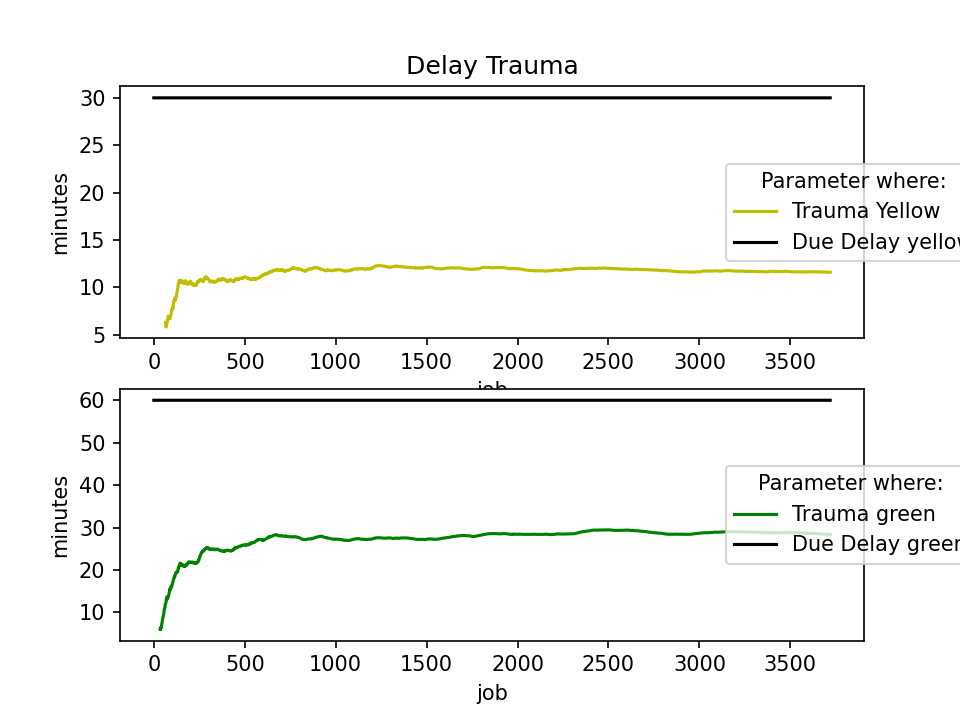
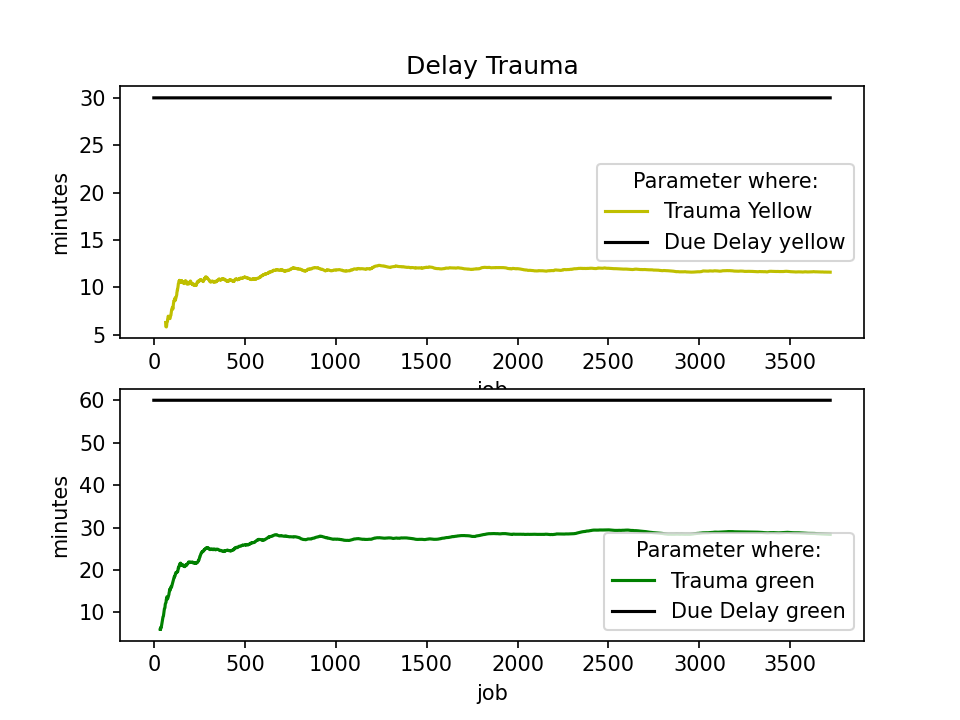
another final graphic

Changed region(s): [[0.625, 0.6417, 1.0, 0.8861], [0.625, 0.2139, 1.0, 0.3667], [0.625, 0.275, 0.6562, 0.3056]]

diff --git a/Python/grafici.py b/Python/grafici.py
@@ -461,10 +461,10 @@ def grafici2LaVendetta(path):
 	ax=plt.subplot(1,1,1);
 	plt.title("Delay Triage")
 	plt.plot(vettoreDelay[0],"r-",label='triage')
-	plt.plot([DueDelay[0]]*minDim,"c-",label='theorical delay')
+	plt.plot([DueDelay[0]]*minDim,"k-",label='Due delay')
 	plt.xlabel('job')
 	plt.ylabel('minutes')
-	ax.legend(title='Parameter where:',loc='center left',bbox_to_anchor=(0.8, 0.5))
+	ax.legend(title='Parameter where:')
 	plt.savefig("Delay"+vettoreReparti[0]+"3.png",format="png", dpi=150)
 	plt.show()
 
@@ -474,7 +474,7 @@ def grafici2LaVendetta(path):
 	plt.plot([DueDelay[1]]*minDim,"k-",label='Due Delay')
 	plt.xlabel('job')
 	plt.ylabel('minutes')
-	ax.legend(title='Parameter where:',loc='center left',bbox_to_anchor=(0.8, 0.5))
+	ax.legend(title='Parameter where:')
 	plt.savefig("Delay"+vettoreReparti[1]+"3.png",format="png", dpi=150)
 	plt.show()
 
@@ -484,14 +484,14 @@ def grafici2LaVendetta(path):
 	plt.plot([DueDelay[5]]*minDim,"k-",label='Due Delay yellow')
 	plt.xlabel('job')
 	plt.ylabel('minutes')	
-	ax.legend(title='Parameter where:',loc='center left',bbox_to_anchor=(0.8, 0.5))
+	ax.legend(title='Parameter where:')
 
 	ax=plt.subplot(2,1,2);
 	plt.plot(vettoreDelay[6],"g-",label='Trauma green');
 	plt.plot([DueDelay[6]]*minDim,"k-",label='Due Delay green')
 	plt.xlabel('job')
 	plt.ylabel('minutes')
-	ax.legend(title='Parameter where:',loc='center left',bbox_to_anchor=(0.8, 0.5))
+	ax.legend(title='Parameter where:')
 	plt.savefig("Delay"+vettoreReparti[2]+"3.png",format="png", dpi=150)
 	plt.show()
 
@@ -501,7 +501,7 @@ def grafici2LaVendetta(path):
 	plt.plot([DueDelay[10]]*minDim,"k-",label='Due Delay yellow')
 	plt.xlabel('job')
 	plt.ylabel('minutes')
-	ax.legend(title='Parameter where:',loc='center left',bbox_to_anchor=(0.8, 0.5))
+	ax.legend(title='Parameter where:')
 	
 	ax=plt.subplot(2,1,2);
 	plt.plot(vettoreDelay[8],"g-",label='Medical green');
@@ -509,7 +509,7 @@ def grafici2LaVendetta(path):
 
 	plt.xlabel('job')
 	plt.ylabel('minutes')
-	ax.legend(title='Parameter where:',loc='center left',bbox_to_anchor=(0.8, 0.5))
+	ax.legend(title='Parameter where:')
 	plt.savefig("Delay"+vettoreReparti[3]+"3.png",format="png", dpi=150)
 	plt.show()
 
@@ -519,14 +519,14 @@ def grafici2LaVendetta(path):
 	plt.plot([DueDelay[7]]*minDim,"k-",label='Due Delay yellow')
 	plt.xlabel('job')
 	plt.ylabel('minutes')
-	ax.legend(title='Parameter where:',loc='center left',bbox_to_anchor=(0.8, 0.5))
+	ax.legend(title='Parameter where:')
 	
 	ax=plt.subplot(3,1,2);
 	plt.plot(vettoreDelay[10],"g-",label='Minor green');
 	plt.plot([DueDelay[8]]*minDim,"k-",label='Due Delay green')
 	plt.xlabel('job')
 	plt.ylabel('minutes')
-	ax.legend(title='Parameter where:',loc='center left',bbox_to_anchor=(0.8, 0.5))
+	ax.legend(title='Parameter where:')
 
 
 	ax=plt.subplot(3,1,3);
@@ -534,7 +534,7 @@ def grafici2LaVendetta(path):
 	plt.plot([DueDelay[9]]*minDim,"k-",label='Due Delay white')
 	plt.xlabel('job')
 	plt.ylabel('minutes')
-	ax.legend(title='Parameter where:',loc='center left',bbox_to_anchor=(0.8, 0.5))
+	ax.legend(title='Parameter where:')
 	plt.savefig("Delay"+vettoreReparti[4]+"3.png",format="png", dpi=150)
 	plt.show()
 
